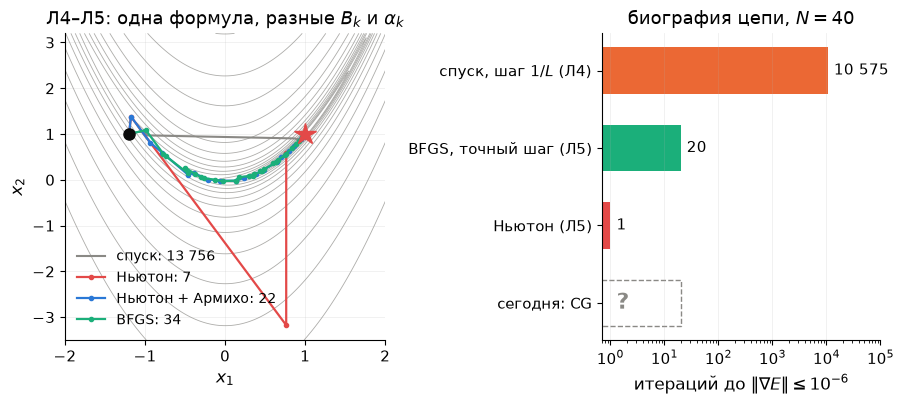
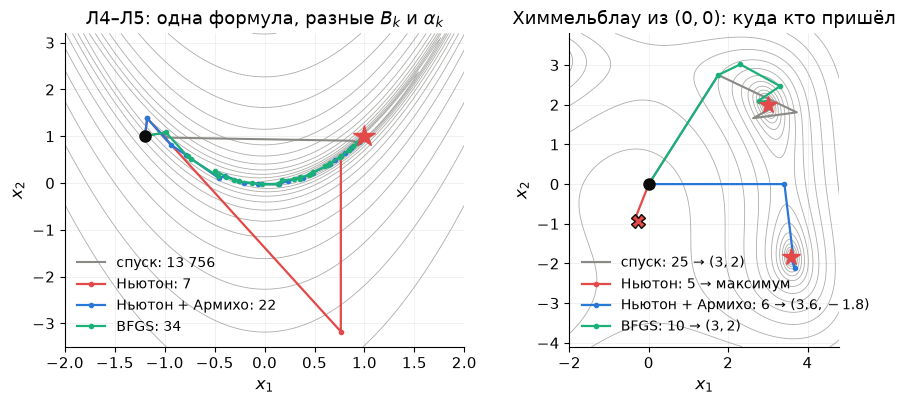
Lecture 6: review picture without the chain biography
The right panel of 01_review.png showed the chain's iteration counts with
an empty "today: CG" bar; conjugate gradients are no longer in the
lecture. It now shows the same four lecture-5 methods on Himmelblau from
(0, 0): pure Newton reaches the maximum in 5 iterations, Newton + Armijo
the minimum (3.58, -1.85) in 6, descent (25) and BFGS (10) the minimum
(3, 2). Caption added under the picture; numbers asserted.

diff --git a/lectures/lecture06/scripts/make_figures.py b/lectures/lecture06/scripts/make_figures.py
@@ -10,7 +10,8 @@
 Картинки в порядке появления в конспекте:
   00_hooks            три крючка: Ньютон на арктангенсе, бассейны Химмельблау, цепь N=400
   00_atan_newton      почему чистый Ньютон улетает на арктангенсе: парабола-модель и касательная к f'
-  01_review           повторение: пути четырёх методов на Розенброке и биография цепи
+  01_review           повторение: пути четырёх методов на Розенброке; справа те же методы на Химмельблау из (0, 0)
+                      (с 15.10 вместо биографии цепи — сопряжённых градиентов в лекции нет)
   02_alpha_cut        выброс Ньютона на Розенброке: шаг из x_1 на линиях уровня и разрез phi(alpha) вдоль него
   02_armijo_c1        правило Армихо: phi(alpha) из введения, касательная и прямая Армихо (одна панель)
   02_armijo_wolfe     phi(alpha) на Розенброке в x_1: допустимые по Армихо и Вольфе шаги
@@ -731,23 +732,33 @@ def fig_review(R):
     ax.set_title("Л4–Л5: одна формула, разные $B_k$ и $\\alpha_k$")
     ax.legend(loc="lower left", fontsize=10)
 
-    ax = axs[1]
-    k40, _, _ = gd_chain_count(40)
-    names = ["спуск, шаг $1/L$ (Л4)", "BFGS, точный шаг (Л5)", "Ньютон (Л5)", "сегодня: CG"]
-    vals = [k40, 20, 1, np.nan]
-    cols = [ORANGE, AQUA, RED, GRAY]
-    y = np.arange(len(names))[::-1]
-    ax.barh(y[:3], vals[:3], color=cols[:3], height=0.6)
-    ax.barh(y[3], 20, color="none", edgecolor=GRAY, ls="--", height=0.6)
-    for yi, v in zip(y[:3], vals[:3]):
-        ax.text(v * 1.3, yi, f"{v:,}".replace(",", " "), va="center", fontsize=11)
-    ax.text(1.3, y[3], "?", va="center", fontsize=16, color=GRAY, fontweight="bold")
-    ax.set_xscale("log"); ax.set_xlim(0.7, 1e5)
-    ax.set_yticks(y); ax.set_yticklabels(names)
-    ax.set(xlabel="итераций до $\\|\\nabla E\\|\\leq10^{-6}$", title="биография цепи, $N=40$")
-    ax.grid(axis="y", alpha=0)
+    ax = axs[1]                                                    # Химмельблау из (0, 0): те же четыре метода
+    x0h = np.array([0.0, 0.0])
+    xg, kg_h, pg_h = gd(him, him_grad, x0h)
+    xn, kn_h, pn_h = newton(him_grad, him_hess, x0h)
+    xd, kd_h, pd_h = newton_ls(him, him_grad, him_hess, x0h)
+    xb, kb_h, pb_h = bfgs(him, him_grad, x0h)[:3]
+    kind = lambda x: ("минимум" if np.linalg.eigvalsh(him_hess(x))[0] > 0 else
+                      "максимум" if np.linalg.eigvalsh(him_hess(x))[1] < 0 else "седло")
+    assert kg_h == 25 and np.allclose(xg, [3, 2], atol=1e-4) and kind(xg) == "минимум", (kg_h, xg)
+    assert kn_h == 5 and np.allclose(xn, [-0.271, -0.923], atol=2e-3) and kind(xn) == "максимум", (kn_h, xn)
+    assert kd_h == 6 and np.allclose(xd, [3.584, -1.848], atol=2e-3) and kind(xd) == "минимум", (kd_h, xd)
+    assert kb_h == 10 and np.allclose(xb, [3, 2], atol=1e-4) and kind(xb) == "минимум", (kb_h, xb)
+    xlim, ylim = (-2.0, 4.8), (-4.1, 3.8)
+    X, Y = np.meshgrid(np.linspace(*xlim, 400), np.linspace(*ylim, 400))
+    F = (X ** 2 + Y - 11) ** 2 + (X + Y ** 2 - 7) ** 2
+    ax.contour(X, Y, F, levels=np.geomspace(0.5, 400, 14), colors=GRAY, linewidths=0.6, alpha=0.7)
+    ax.plot(pg_h[:, 0], pg_h[:, 1], "-", color=GRAY, lw=1.5, label=f"спуск: {kg_h} → $(3,2)$")
+    ax.plot(pn_h[:, 0], pn_h[:, 1], ".-", color=RED, lw=1.6, ms=6, label=f"Ньютон: {kn_h} → максимум")
+    ax.plot(pd_h[:, 0], pd_h[:, 1], ".-", color=BLUE, lw=1.6, ms=6, label=f"Ньютон + Армихо: {kd_h} → $(3.6,-1.8)$")
+    ax.plot(pb_h[:, 0], pb_h[:, 1], ".-", color=AQUA, lw=1.6, ms=6, label=f"BFGS: {kb_h} → $(3,2)$")
+    for m in ([3, 2], [3.584, -1.848], [-2.805, 3.131], [-3.779, -3.283]):
+        ax.plot(*m, "*", color=RED, ms=13, zorder=7)
+    ax.plot(*xn, "X", color=RED, mec=INK, ms=10, zorder=8)
+    ax.plot(*x0h, "o", color=INK, ms=8, zorder=9)
+    ax.set(xlim=xlim, ylim=ylim, aspect="equal", xlabel="$x_1$", ylabel="$x_2$", title="Химмельблау из $(0,0)$: куда кто пришёл")
+    ax.legend(loc="lower left", fontsize=10)
     save("01_review.png")
-    assert k40 == 10575, k40
 
 
 # ================================================================ 02 Армихо и Вольфе

diff --git a/lectures/lecture06/lecture06.md b/lectures/lecture06/lecture06.md
@@ -84,7 +84,9 @@ $$
 
 **Направление** $p_k$ задаёт матрица кривизны $B_k$: что метод знает о функции. **Длину** задаёт $\alpha_k$. Лекция 4 научилась выбирать $\alpha_k$ для спуска ($B_k=I$), лекция 5 — выбирать $B_k$: гессиан, BFGS, $J^\top J$, $J^\top J+\lambda I$.
 
-<img src="img/01_review.png" width="900" alt="повторение: пути спуска, чистого и демпфированного Ньютона и BFGS на Розенброке и число итераций каждого; справа биография цепи — 10 575, 20, 1 и пустая строка для сегодняшнего метода">
+<img src="img/01_review.png" width="900" alt="повторение: слева пути спуска, чистого Ньютона, Ньютона с Армихо и BFGS на Розенброке из (−1.2, 1) с числом итераций; справа те же четыре метода на Химмельблау из (0, 0): чистый Ньютон за 5 итераций приходит в максимум, Ньютон с Армихо за 6 — в минимум (3.58, −1.85), спуск за 25 и BFGS за 10 — в минимум (3, 2)">
+
+*Слева: Розенброк из $(-1.2,1)$ — четыре метода лекций 4–5, число итераций в легенде. Справа: Химмельблау из $(0,0)$ — из одного старта чистый Ньютон приходит в максимум, Ньютон с Армихо — в минимум $(3.58,-1.85)$, спуск и BFGS — в минимум $(3,2)$. Куда придёт метод, решает не только модель, но и то, как мы ей доверяем, — об этом сегодня.*
 
 | Метод | $B_k$ | $\alpha_k$ | Скорость вблизи решения | Розенброк из $(-1.2,1)$ |
 |---|---|---|---|---|
